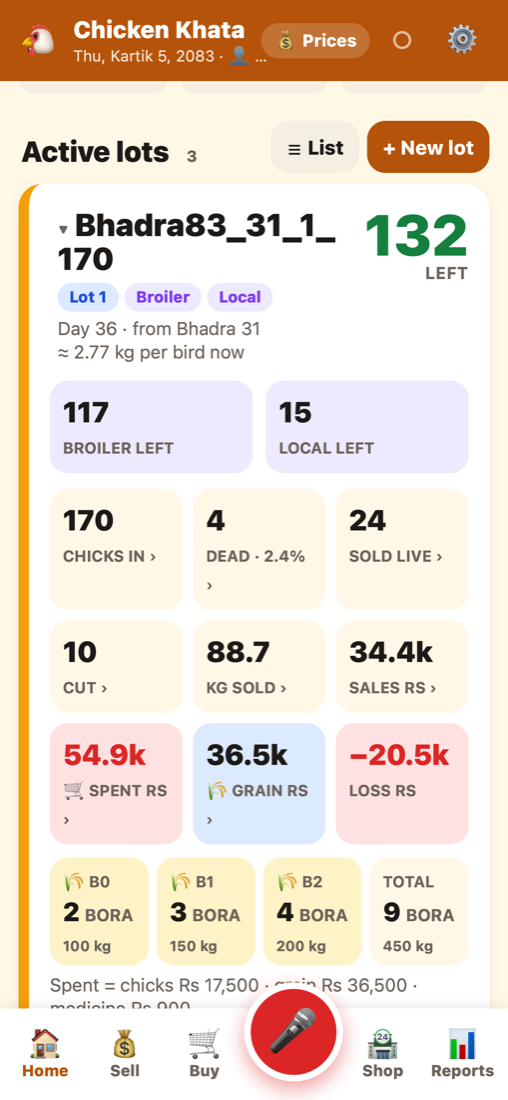
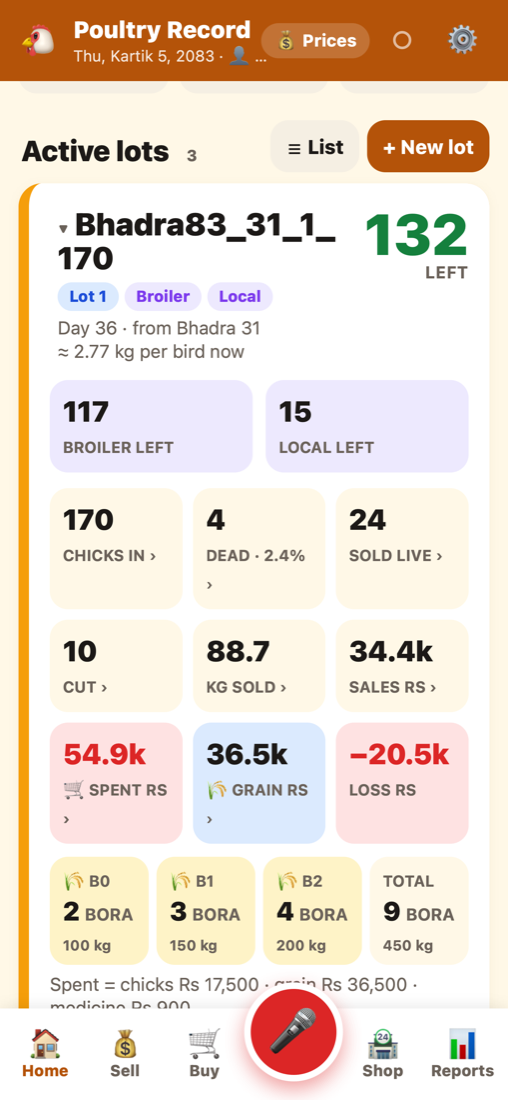
Rename app to Poultry Record

diff --git a/assets/ui.js b/assets/ui.js
@@ -1,4 +1,4 @@
-/* Chicken Khata — screens */
+/* Poultry Record — screens */
 'use strict';
 
 let view = 'home';
@@ -845,7 +845,7 @@ function renderSettings() {
       </div>
       <p class="small muted">The sync file is also a full backup.</p>
     </div>
-    <p class="small muted" style="text-align:center">Chicken Khata v${APP_VERSION} · ${counts.lot} lots · ${counts.sale} sales · ${counts.event} process entries</p>`;
+    <p class="small muted" style="text-align:center">Poultry Record v${APP_VERSION} · ${counts.lot} lots · ${counts.sale} sales · ${counts.event} process entries</p>`;
 }
 function openPriceSheet() {
   openSheet(`<h2>Prices by chicken type</h2><p class="small muted">Rs per kg. Used as the default rate for each sale.</p>
@@ -860,8 +860,8 @@ function openSyncSetup() {
   openSheet(`<h2>Use on many phones</h2>
     <p>All phones share one Google Sheet. Do this <b>once</b> on a computer or phone (5 minutes):</p>
     <ol class="steps">
-      <li>Open <b>sheets.google.com</b> and create a blank sheet named <b>Chicken Khata</b>.</li>
-      <li>Menu <b>Extensions → Apps Script</b>. Delete what is there and paste the code from the file <b>ChickenKhata-Sync.gs</b> (I gave it to you with the app).</li>
+      <li>Open <b>sheets.google.com</b> and create a blank sheet named <b>Poultry Record</b>.</li>
+      <li>Menu <b>Extensions → Apps Script</b>. Delete what is there and paste the code from the file <b>PoultryRecord-Sync.gs</b> (I gave it to you with the app).</li>
       <li>In the code, change <code>SYNC_KEY</code> to a secret word, e.g. <code>myfarm2026</code>. Press 💾 Save.</li>
       <li>Click <b>Deploy → New deployment</b> → type <b>Web app</b>. “Execute as”: <b>Me</b>. “Who has access”: <b>Anyone</b>. Click Deploy and allow access.</li>
       <li>Copy the <b>Web app URL</b> (ends with <code>/exec</code>).</li>
@@ -871,7 +871,7 @@ function openSyncSetup() {
     <button class="btn big primary" data-act="closeSheet">OK</button>`);
 }
 function onboarding() {
-  openSheet(`<div style="text-align:center;font-size:56px">🐔</div><h2 style="text-align:center">Welcome to Chicken Khata</h2>
+  openSheet(`<div style="text-align:center;font-size:56px">🐔</div><h2 style="text-align:center">Welcome to Poultry Record</h2>
     <p class="muted" style="text-align:center">Record sales, deaths and feed by voice. Let's set a few things.</p>
     <div id="onbForm">
     <div class="field"><label>👤 Your name (who is entering)</label><input data-o="userName" value="${esc(db.meta.userName || '')}" placeholder="e.g. Ram"></div>
@@ -916,15 +916,15 @@ function exportCsv(which) {
 
 function exportSync() {
   const data = { app: 'chickenkhata', kind: 'sync', version: 1, from: db.meta.deviceName, exportedAt: new Date().toISOString(), records: Object.values(db.records) };
-  const name = 'chicken-khata-' + normName(db.meta.deviceName).slice(0, 12) + '-' + today() + '.json';
+  const name = 'poultry-record-' + normName(db.meta.deviceName).slice(0, 12) + '-' + today() + '.json';
   saveTextFile(name, 'application/json', JSON.stringify(data), ok => toast(ok ? 'Saved. Now send this file to the other phone and Import it there.' : 'Not saved'));
 }
 function importSync() {
   openTextFile(text => {
     if (!text) { toast('No file opened'); return; }
     let data;
-    try { data = JSON.parse(text); } catch (e) { toast('This is not a Chicken Khata sync file'); return; }
-    if (!data || data.app !== 'chickenkhata' || !Array.isArray(data.records)) { toast('This is not a Chicken Khata sync file'); return; }
+    try { data = JSON.parse(text); } catch (e) { toast('This is not a Poultry Record sync file'); return; }
+    if (!data || data.app !== 'chickenkhata' || !Array.isArray(data.records)) { toast('This is not a Poultry Record sync file'); return; }
     const before = {};
     data.records.forEach(r => { if (r && r.id) before[r.id] = db.records[r.id] && db.records[r.id].updatedAt; });
     const n = mergeRecords(data.records);
@@ -935,7 +935,7 @@ function importSync() {
 }
 function shareSummary() {
   const t = today(), s = periodStats(t, t), st = computeStats();
-  const lines = [`🐔 Chicken Khata — ${fmtDate(t, true)}`, `Sales: ${money(s.amount)} (${s.count} sales)`, `Live: ${kgs(s.liveKg)} · Meat: ${kgs(s.meatKg)}`, `Dead today: ${s.dead}`, '',
+  const lines = [`🐔 Poultry Record — ${fmtDate(t, true)}`, `Sales: ${money(s.amount)} (${s.count} sales)`, `Live: ${kgs(s.liveKg)} · Meat: ${kgs(s.meatKg)}`, `Dead today: ${s.dead}`, '',
     ...activeLots().map(l => `${l.name}: ${st[l.id].remaining} left (day ${st[l.id].age})`)];
   shareText(lines.join('\n'));
 }
@@ -1226,7 +1226,7 @@ function renderProfit() {
 function reportText() {
   const [from, to, label] = reportRange(reportPeriod);
   const R = farmReport(from, to), st = computeStats();
-  return [`🐔 Chicken Khata — ${label}`, `Sales: ${money(R.sales)} (live ${kgs(R.liveKg)}, meat ${kgs(R.meatKg)})`,
+  return [`🐔 Poultry Record — ${label}`, `Sales: ${money(R.sales)} (live ${kgs(R.liveKg)}, meat ${kgs(R.meatKg)})`,
     `Costs: ${money(R.costs)} (chicks ${money(R.chicksCost)}, feed ${money(R.feed)}, medicine ${money(R.med)}, other ${money(R.other + R.expenses + R.equip)})`,
     `${R.profit >= 0 ? 'PROFIT' : 'LOSS'}: ${money(Math.abs(R.profit))}`, R.credit ? `To receive (credit sales): ${money(R.credit)}` : '', R.payable ? `To pay (credit purchases): ${money(R.payable)}` : '', '',
     ...lots().filter(l => !l.closed || (l.closedDate || '') >= from).map(l => `${l.name}: profit ${money(st[l.id].profit)}, left ${st[l.id].remaining}, dead ${st[l.id].dead}`)].filter((x, i, a) => x !== '' || a[i - 1] !== '').join('\n');

diff --git a/assets/updater.js b/assets/updater.js
@@ -1,13 +1,13 @@
-/* Chicken Khata — built-in updater.
+/* Poultry Record — built-in updater.
    Updates are GitHub Releases: each release has update.json, web-<version>.json and the APK attached,
    and phones read them from …/releases/latest/download/.
    update.json looks like:
    { "web": { "version": "1.8.1", "minNative": 9, "bundle": "web-1.8.1.json" },
-     "apk": { "versionCode": 9, "versionName": "1.8", "file": "ChickenKhata-1.8.apk", "notes": "…" } }
+     "apk": { "versionCode": 9, "versionName": "1.8", "file": "PoultryRecord-1.8.apk", "notes": "…" } }
    Screens/logic (web) update silently; a new APK shows an "Install" banner (Android asks to confirm). */
 'use strict';
 
-const DEFAULT_UPDATE_URL = 'https://github.com/rs0404/chicken-khata-updates/releases/latest/download/';
+const DEFAULT_UPDATE_URL = 'https://github.com/rs0404/poultry-record/releases/latest/download/';
 let updateInfo = null;      // { apk: {...} } when a newer APK is available
 let updateBusy = false;
 
@@ -37,7 +37,7 @@ async function checkForUpdates(manual) {
   try {
     const info = JSON.parse(await httpGet(updateBase() + 'update.json'));
     db.meta.lastUpdateCheck = Date.now();
-    let msg = 'Chicken Khata is up to date ✓';
+    let msg = 'Poultry Record is up to date ✓';
     // 1) newer APK?
     if (info.apk && Number(info.apk.versionCode) > nativeCode()) {
       updateInfo = { apk: info.apk };
@@ -64,7 +64,7 @@ async function checkForUpdates(manual) {
 
 window.onApkProgress = pct => {
   if (pct === -1) toast('Update download failed. Check internet and try again.');
-  else if (pct === -2) toast('Allow “Install unknown apps” for Chicken Khata, then tap Install again.');
+  else if (pct === -2) toast('Allow “Install unknown apps” for Poultry Record, then tap Install again.');
   else if (pct === 101) toast('Tap “Update” on the next screen');
   else if (pct >= 0) toast(`Downloading update… ${pct}%`);
 };

diff --git a/assets/voice.js b/assets/voice.js
@@ -1,4 +1,4 @@
-/* Chicken Khata — voice: speech in/out, command parser, conversation flows */
+/* Poultry Record — voice: speech in/out, command parser, conversation flows */
 'use strict';
 
 // ======================= speech output =======================
@@ -82,7 +82,7 @@ window.onVoiceState = function (state, data) {
       network: 'Voice needs internet, or download the offline voice pack (Settings → Voice).',
       unavailable: 'Voice typing is not available. Install or enable “Google” voice typing.',
       audio: 'Microphone problem. Please try again.',
-      permission: 'Allow the microphone: Settings → Apps → Chicken Khata → Permissions → Microphone.',
+      permission: 'Allow the microphone: Settings → Apps → Poultry Record → Permissions → Microphone.',
       error11: 'Voice is busy. Tap 🎤 again.', error8: 'Voice is busy. Tap 🎤 again.', error5: 'Voice was interrupted. Tap 🎤 again.',
       error12: 'This voice language is not available offline — check Settings → Voice.', error13: 'This voice language is not downloaded — check Settings → Voice.'
     }[data];

diff --git a/assets/index.html b/assets/index.html
@@ -3,7 +3,7 @@
 <head>
 <meta charset="utf-8">
 <meta name="viewport" content="width=device-width, initial-scale=1, maximum-scale=1, viewport-fit=cover">
-<title>Chicken Khata</title>
+<title>Poultry Record</title>
 <link rel="stylesheet" href="app.css">
 </head>
 <body>
@@ -11,7 +11,7 @@
   <div class="brand" data-act="switchUser" style="cursor:pointer">
     <span class="logo">🐔</span>
     <div>
-      <div class="appname">Chicken Khata</div>
+      <div class="appname">Poultry Record</div>
       <div class="sub" id="topDate"></div>
     </div>
   </div>

diff --git a/assets/core.js b/assets/core.js
@@ -1,8 +1,8 @@
-/* Chicken Khata — data, stats and sync */
+/* Poultry Record — data, stats and sync */
 'use strict';
 
 const HAS_ANDROID = typeof window.Android !== 'undefined';
-const APP_VERSION = '1.10.1';
+const APP_VERSION = '1.11.0';
 
 // ---------- small utils ----------
 const $ = (sel, el) => (el || document).querySelector(sel);

diff --git a/assets/parser.js b/assets/parser.js
@@ -1,4 +1,4 @@
-/* Chicken Khata — turns spoken/typed sentences into commands */
+/* Poultry Record — turns spoken/typed sentences into commands */
 'use strict';
 
 const SMALL = { zero: 0, one: 1, two: 2, three: 3, four: 4, five: 5, six: 6, seven: 7, eight: 8, nine: 9, ten: 10, eleven: 11, twelve: 12, thirteen: 13,

diff --git a/assets/flows.js b/assets/flows.js
@@ -1,4 +1,4 @@
-/* Chicken Khata — conversation flows (ask → answer by voice or tap → save → speak back) */
+/* Poultry Record — conversation flows (ask → answer by voice or tap → save → speak back) */
 'use strict';
 
 let pendingAsk = null;

diff --git a/assets/shop.js b/assets/shop.js
@@ -1,4 +1,4 @@
-/* Chicken Khata — Shop register: daily cash + QR collection and goods bought */
+/* Poultry Record — Shop register: daily cash + QR collection and goods bought */
 'use strict';
 
 let shopDraft = null;

diff --git a/README.md b/README.md
@@ -1,4 +1,4 @@
-# Chicken Khata 🐔
+# Poultry Record 🐔
 
 A voice-first Android app for my home poultry farm and shop. It records chicken sales (live, cut meat, khutta-tauko), grain and medicine purchases, deaths and feeding lot by lot, plus the shop's daily cash and QR collection. It also shows profit. It runs on several phones, uses the Nepali (BS) calendar, and understands English and Nepali voice.
 
@@ -89,26 +89,26 @@ A voice-first Android app for my home poultry farm and shop. It records chicken 
 | Dates | "yesterday …", "Kartik 2 gate …" |
 
 ## Install on a phone
-1. On the phone, open the latest release: <https://github.com/rs0404/chicken-khata-updates/releases/latest>. Download **ChickenKhata-x.y.apk** and install it, allowing "Install unknown apps" when asked.
+1. On the phone, open the latest release: <https://github.com/rs0404/poultry-record/releases/latest>. Download **PoultryRecord-x.y.apk** and install it, allowing "Install unknown apps" when asked.
 2. Open the app, enter your name and the prices, then add your first lot.
 3. After that, the phone updates itself.
 
 > On Samsung phones with **Dual Apps**, install only the normal copy. A dual copy has separate, empty data.
 
 ## Several phones: Google Sheet sync
-Paste [`google-sheet-sync/ChickenKhata-Sync.gs`](google-sheet-sync/ChickenKhata-Sync.gs) into a Google Sheet (Extensions → Apps Script). Deploy it as a web app, then paste the link and the sync key into Settings on every phone. The steps are at the top of the file.
+Paste [`google-sheet-sync/PoultryRecord-Sync.gs`](google-sheet-sync/PoultryRecord-Sync.gs) into a Google Sheet (Extensions → Apps Script). Deploy it as a web app, then paste the link and the sync key into Settings on every phone. The steps are at the top of the file.
 
 ## Build and release (developer)
 Needs the Android SDK command line tools (build-tools 35, platform 35) and a JDK. No Gradle.
 ```bash
-./build.sh      # builds ChickenKhata.apk and dist/ (update.json, web-<ver>.json, APK)
+./build.sh      # builds PoultryRecord.apk and dist/ (update.json, web-<ver>.json, APK)
 ./publish.sh    # creates GitHub Release v<WEB_VERSION> with the dist/ files
 ```
 - Versions are in [`version.env`](version.env):
   - Raise `WEB_VERSION` for screen and logic changes (installed silently).
   - Raise `APK_CODE`/`APK_NAME` only when `src/` or `AndroidManifest.xml` changes.
 - The signing key (`signing/`) stays on the build computer and is **never committed**. Every update must be signed with it.
-- Phones read `https://github.com/rs0404/chicken-khata-updates/releases/latest/download/update.json`.
+- Phones read `https://github.com/rs0404/poultry-record/releases/latest/download/update.json`.
 - To try the screens in a browser: `python3 devserver.py` → <http://localhost:8765>.
 
 ## Project layout
